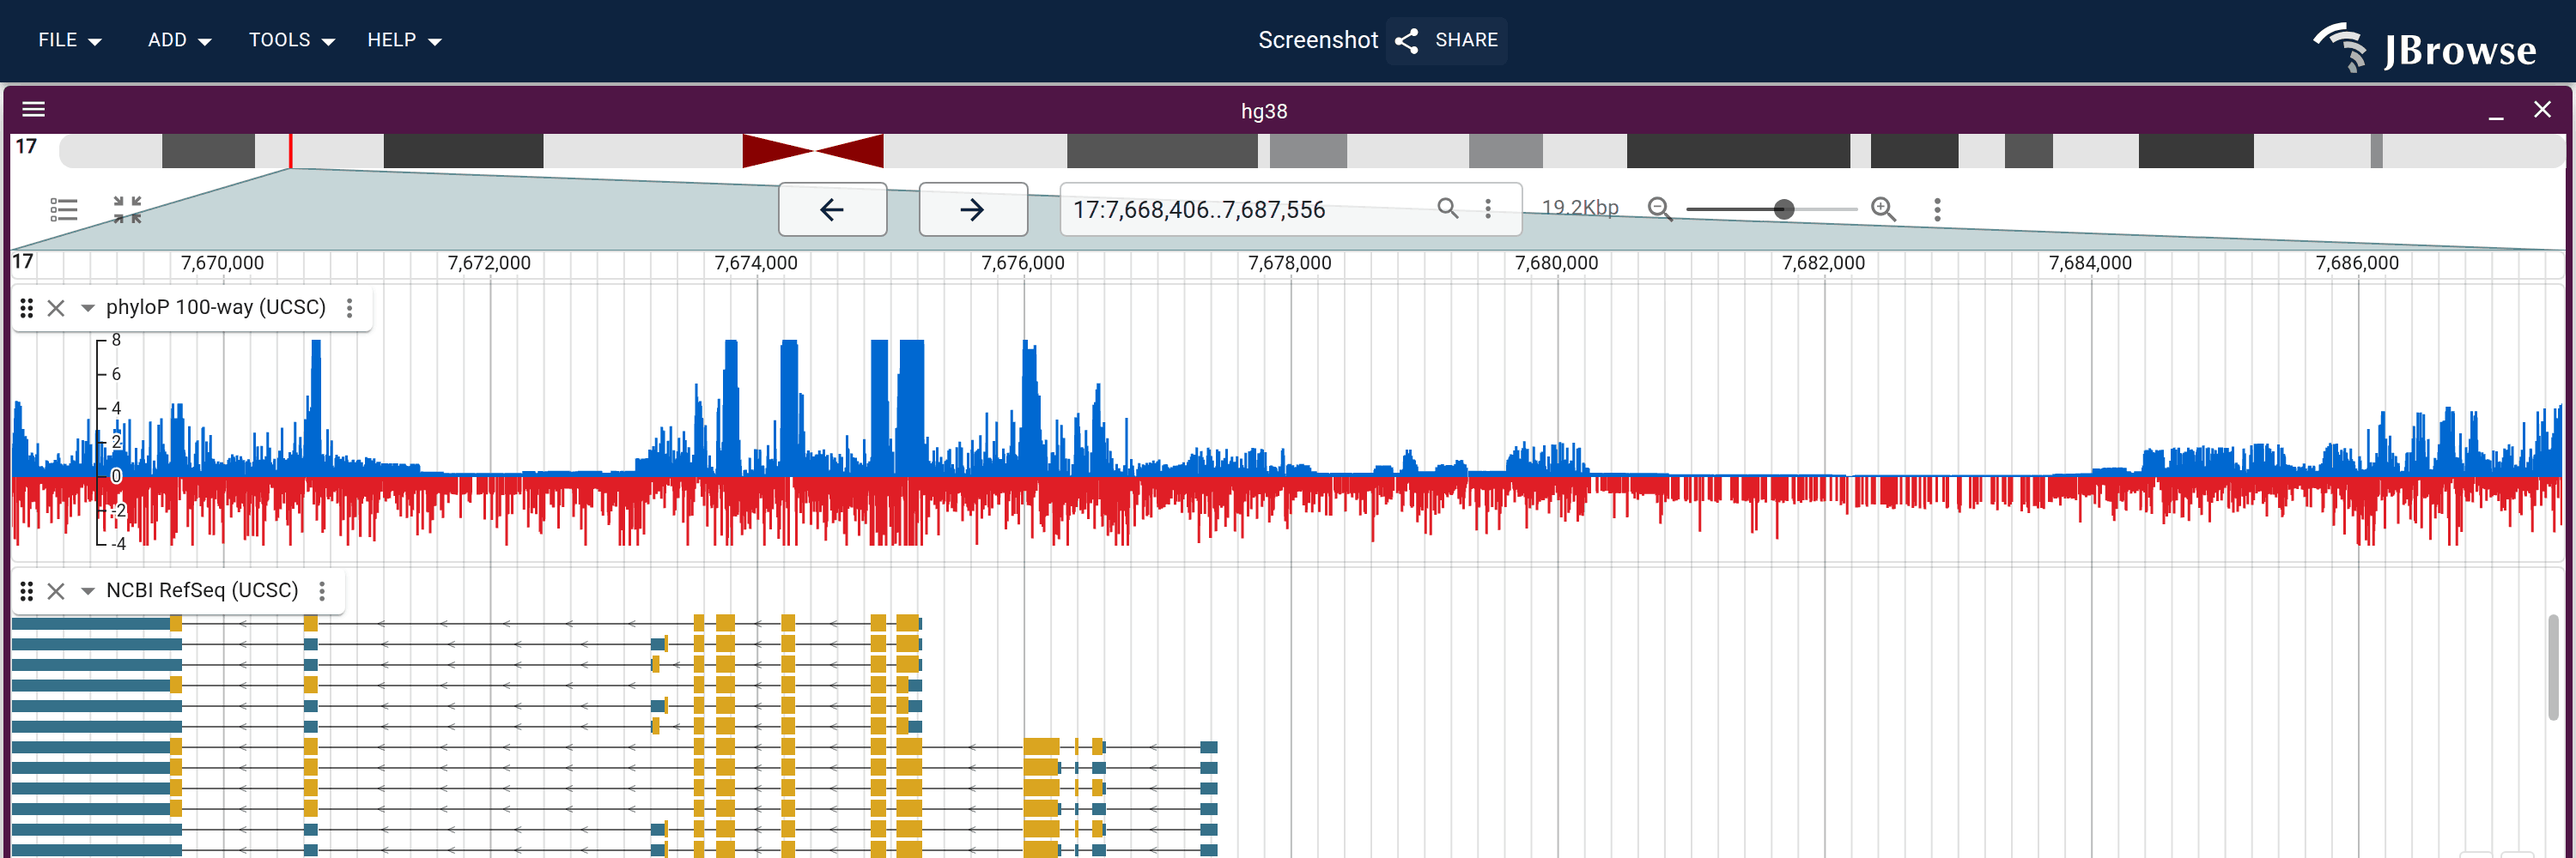
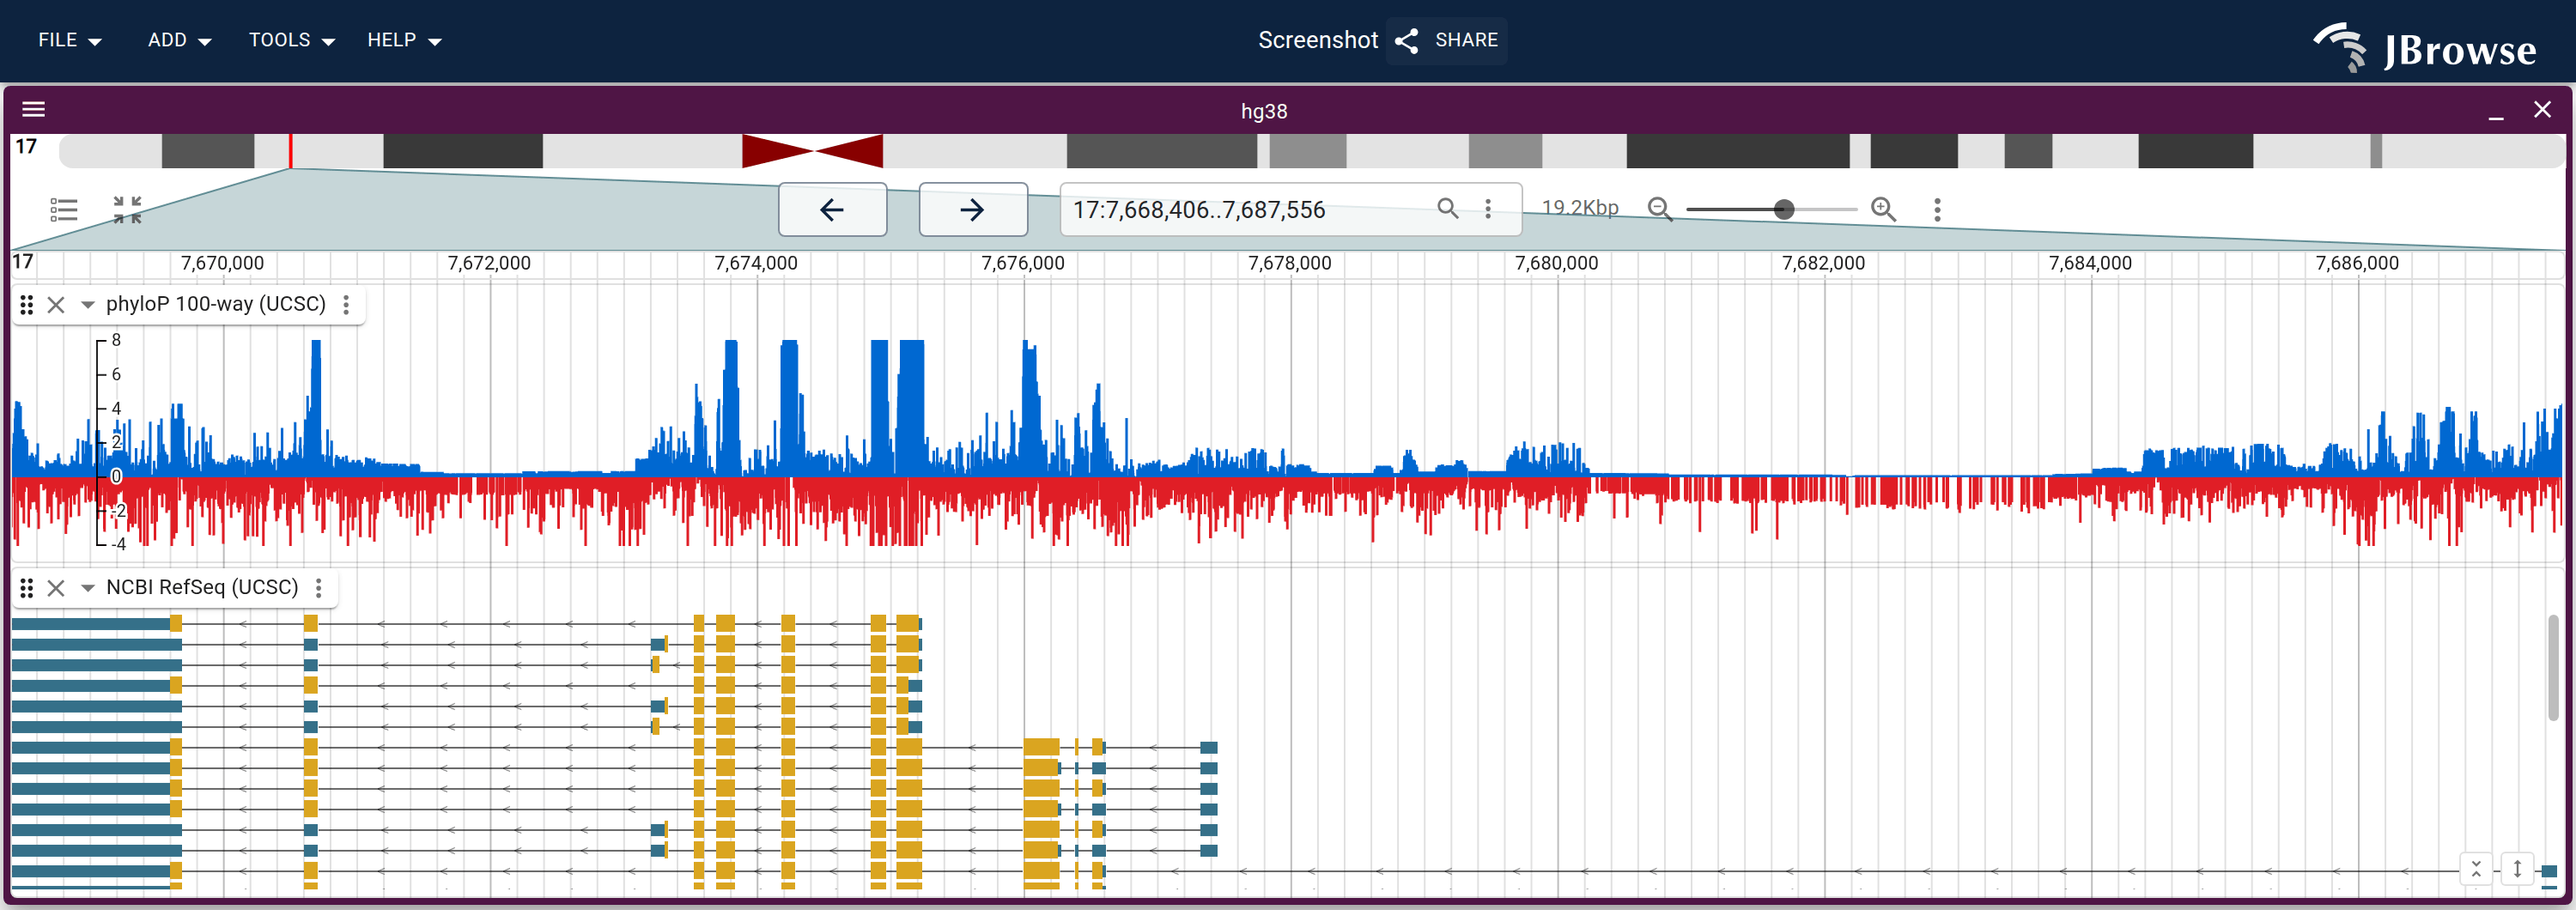
fix(website): give the phyloP figure the 27px its gene track was cut off by
The run's own clipped-below-the-fold report asked for 27.28 css px; at
viewportHeight 500 the NCBI RefSeq track's last transcript row was sliced
by the viewport edge, in the committed PNG as well as the re-render.

Claude-Session: https://claude.ai/code/session_01W8e6oogBWtdKrxHNjvbvv2

diff --git a/website/scripts/specs/conservation.ts b/website/scripts/specs/conservation.ts
@@ -63,7 +63,9 @@ export const conservationSpecs: ScreenshotSpec[] = [
     readyText: 'phyloP',
     readyTimeout: 60000,
     settleMs: 8000,
-    viewportHeight: 500,
+    // 500 cut the gene track's last transcript row in half; the run's own
+    // clipped-below-the-fold report asked for 27 css px more.
+    viewportHeight: 530,
     // Remote UCSC/NCBI range fetches introduce render-timing jitter; loosen the
     // content-stable gate so an unchanged capture isn't re-committed each regen.
     diffThreshold: 0.02,
